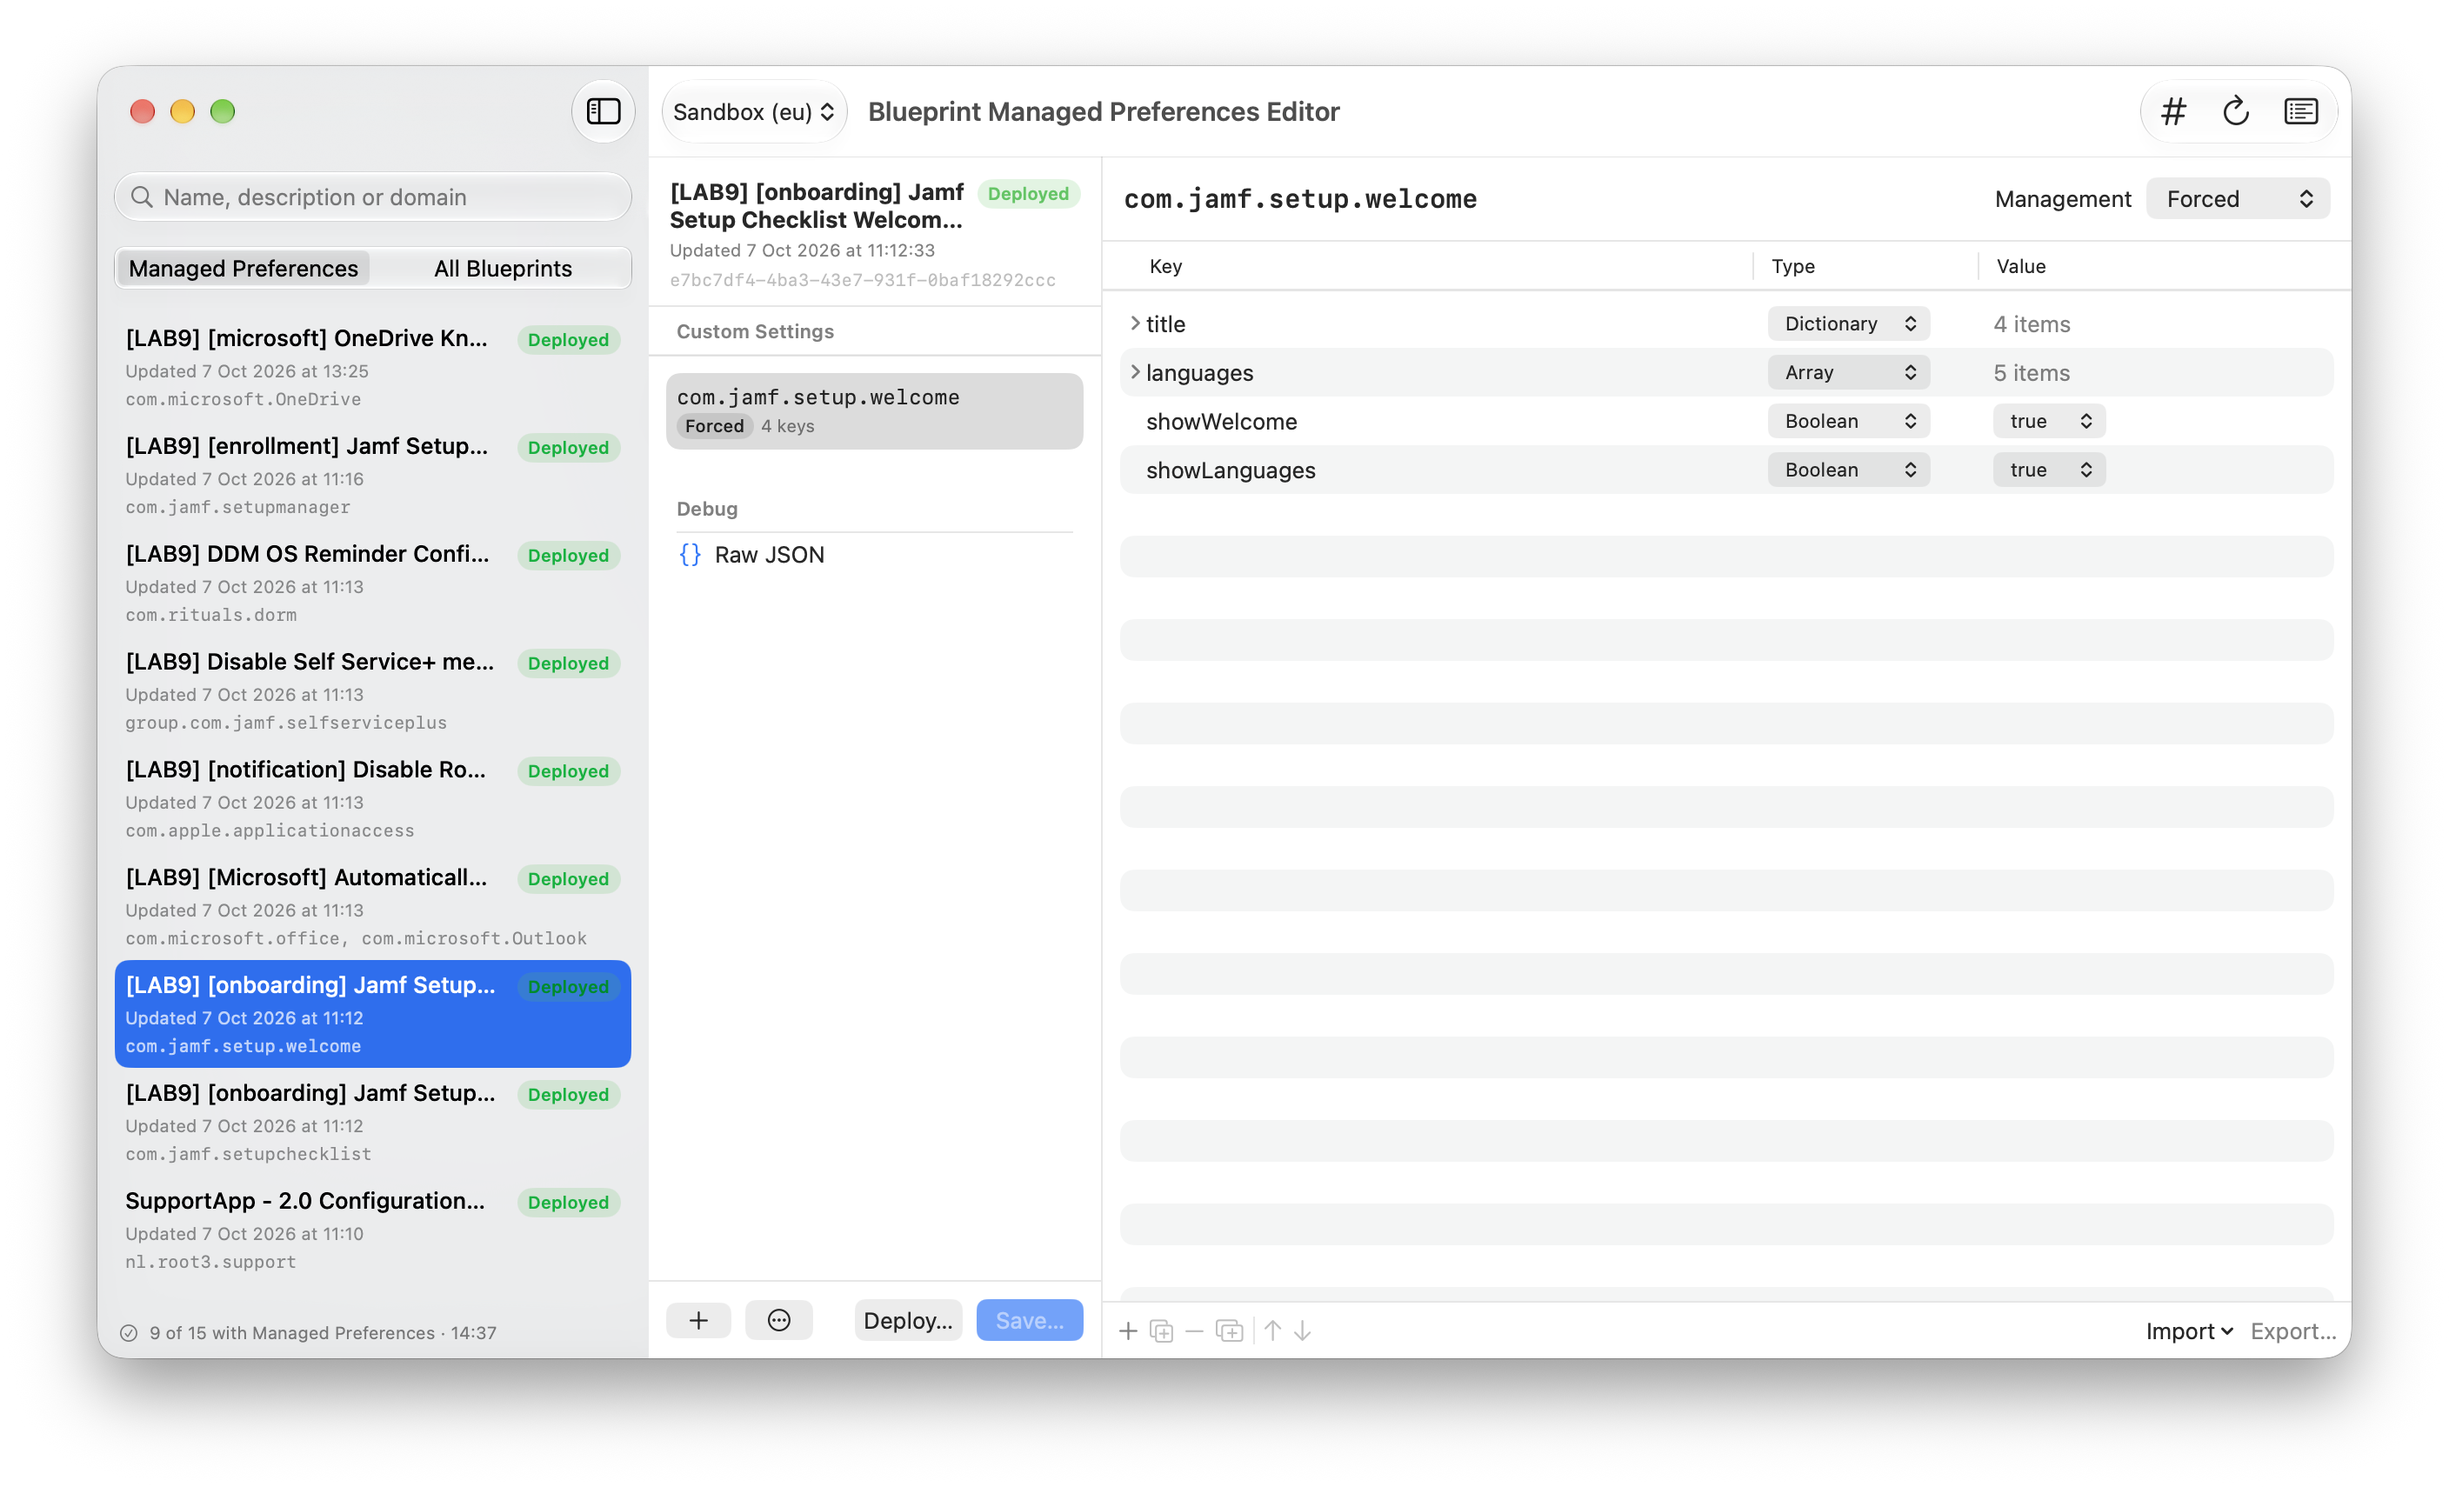
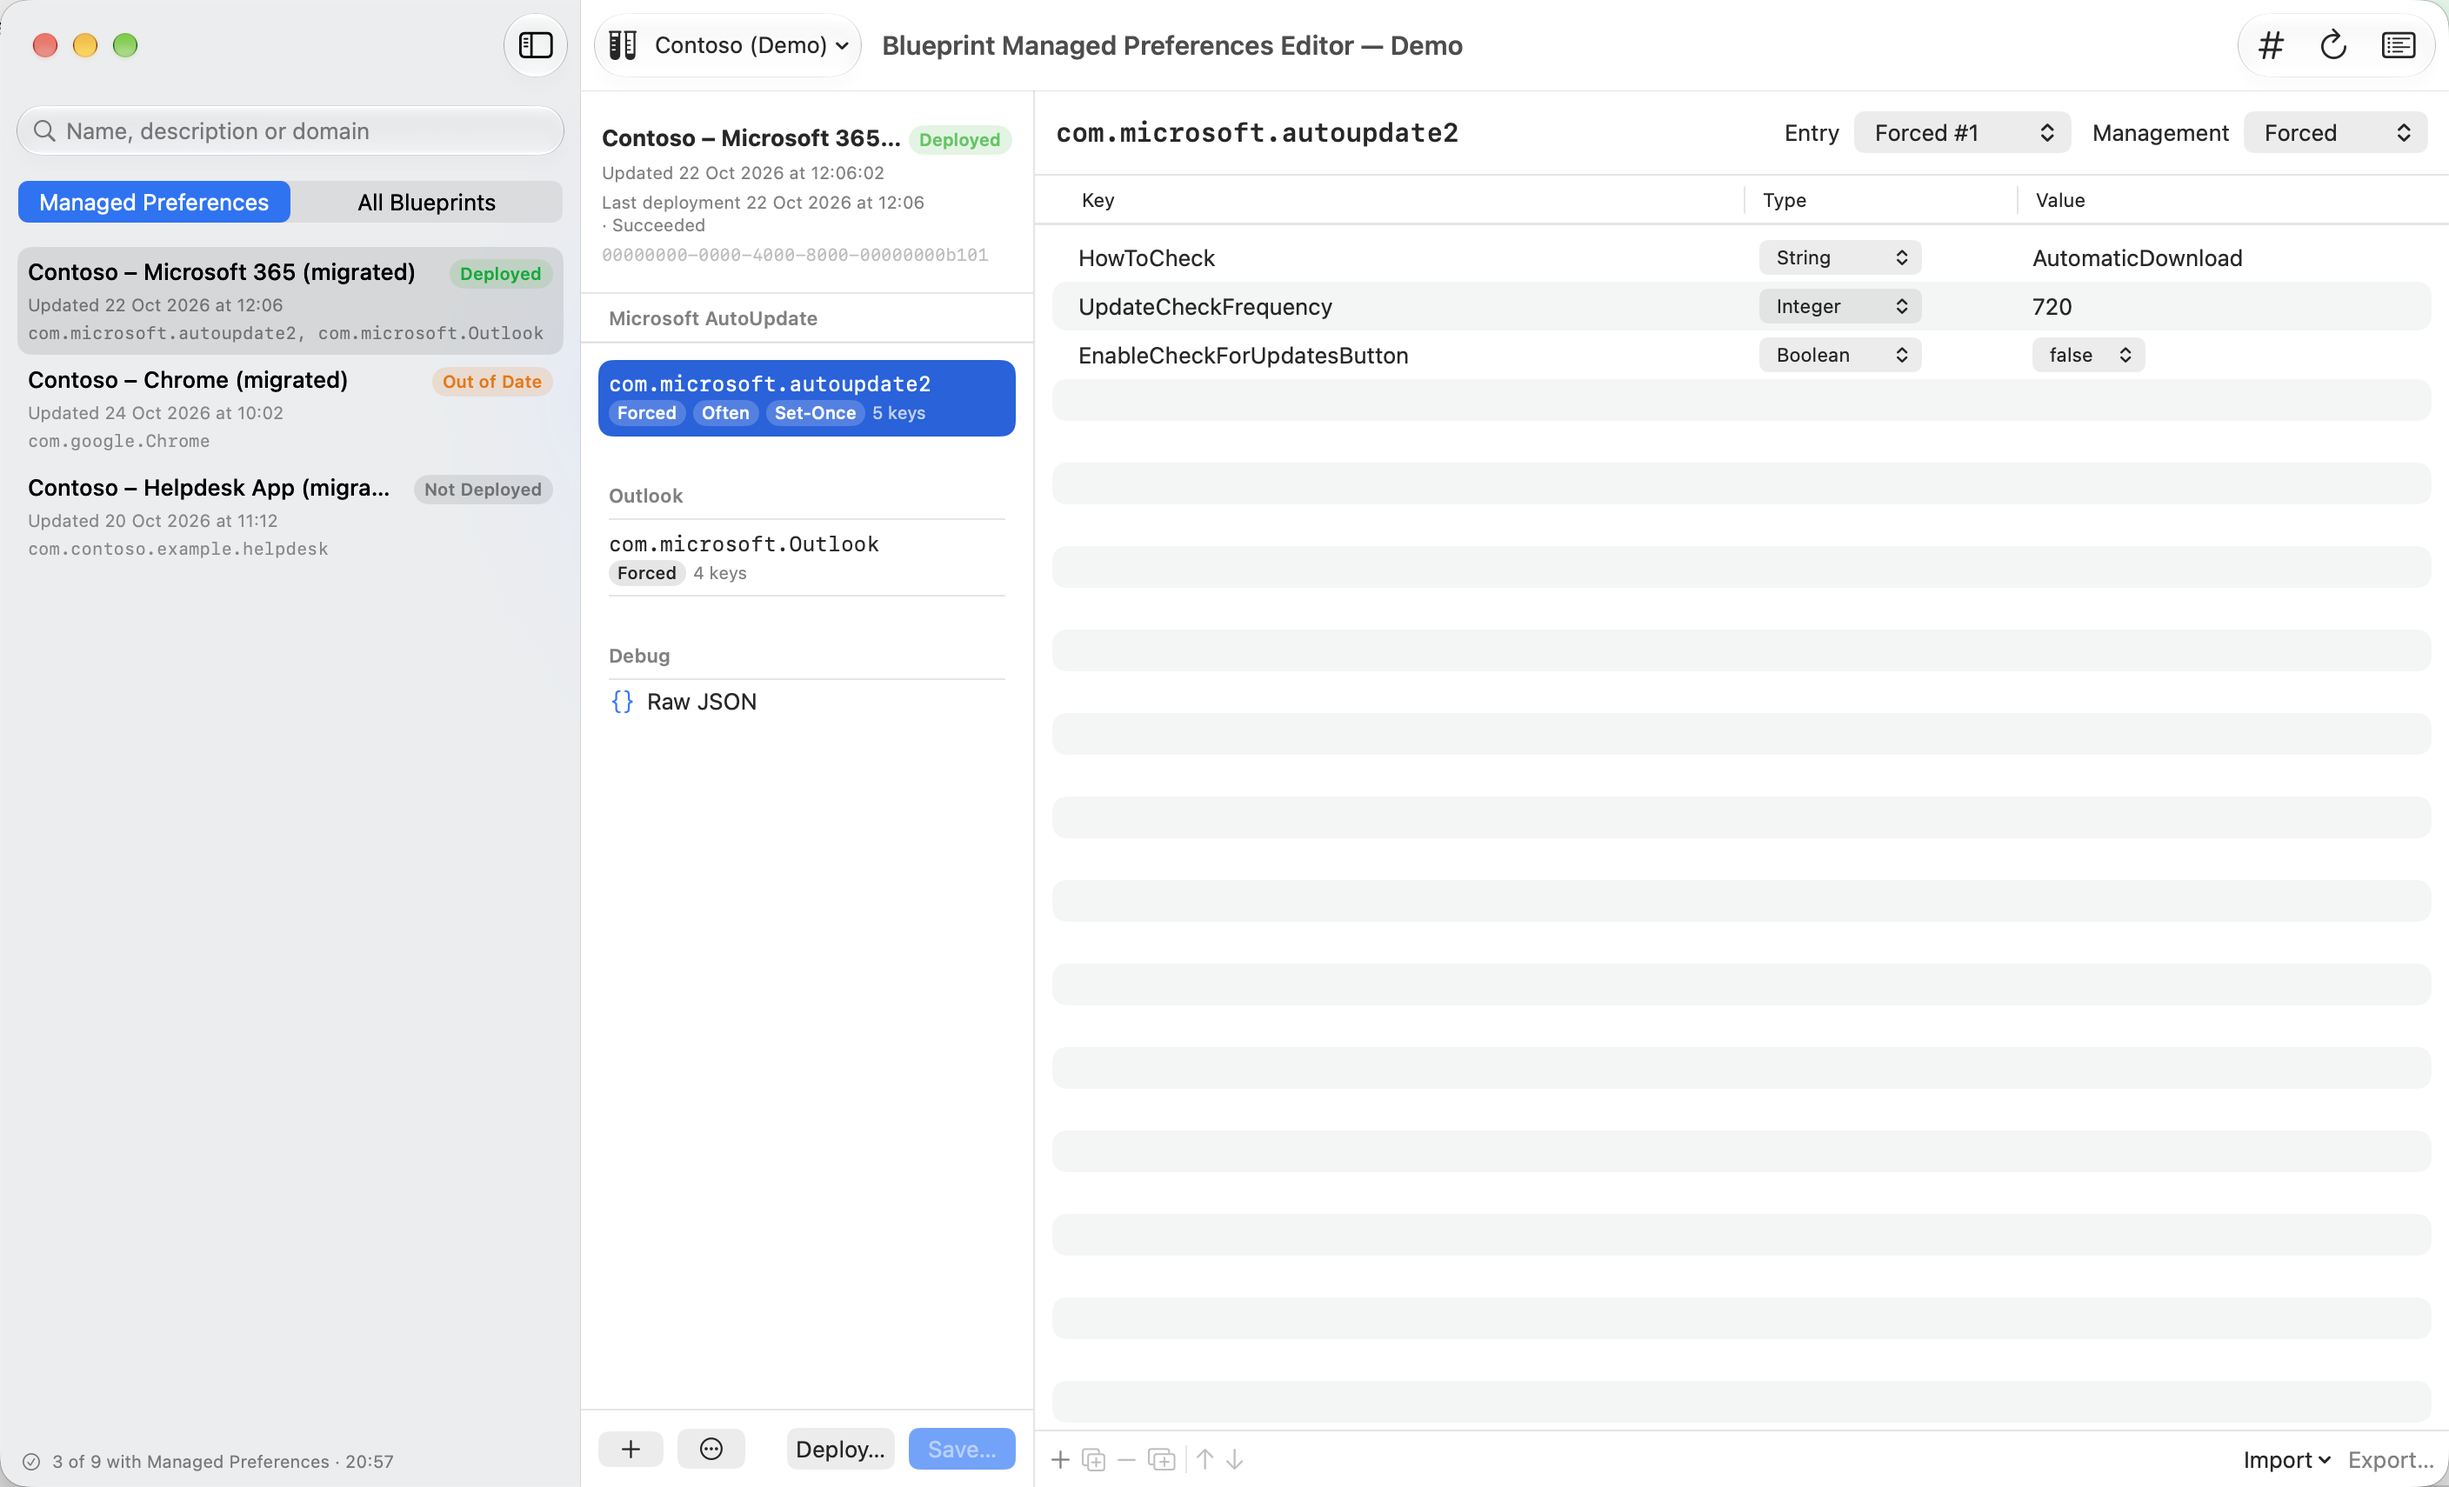
Documentation matches the current release

diff --git a/Blueprint Managed Preferences EditorUITests/ScreenshotUITests.swift b/Blueprint Managed Preferences EditorUITests/ScreenshotUITests.swift
@@ -1,0 +1,49 @@
+import XCTest
+import JTKitUITestSupport
+
+/// Makes the README screenshot in demo mode (Contoso sample data only).
+/// Not part of the release check: run it by hand when the interface changes.
+/// The image is attached to the test result under its `docs/` file name; get it with
+/// `xcrun xcresulttool export attachments --path <result bundle> --output-path <folder>`.
+final class ScreenshotUITests: JTKitUITestCase {
+    private let microsoft365 = "Contoso – Microsoft 365 (migrated)"
+    private let domain = "com.microsoft.autoupdate2"
+
+    override var appName: String { "Blueprint Managed Preferences Editor" }
+
+    override var demoLaunchArguments: [String] {
+        // A fixed window size (in points), so every screenshot has the same
+        // proportions, whatever frame the main window last had.
+        ["-checksForUpdates", "NO", "-NSWindow Frame main", "100 100 1408 855 0 0 1800 1130 "]
+    }
+
+    override func launchApp() {
+        launchInDemo()
+    }
+
+    func testReadmeScreenshot() {
+        let main = app.windows.firstMatch
+        XCTAssertTrue(main.waitForExistence(timeout: 20), "The main window did not open")
+
+        tap(text(microsoft365), timeout: 20)
+        tap(text(domain), timeout: 20)
+        XCTAssertTrue(app.outlineRows.firstMatch.waitForExistence(timeout: 20), "The domain's keys aren't shown")
+        sleep(1)
+
+        save(main.screenshot(), as: "screenshot.png")
+    }
+
+    // MARK: Helpers
+
+    private func save(_ screenshot: XCUIScreenshot, as name: String) {
+        let attachment = XCTAttachment(screenshot: screenshot)
+        attachment.name = name
+        attachment.lifetime = .keepAlways
+        add(attachment)
+    }
+
+    /// A SwiftUI text, which exposes its string as the value (label empty).
+    private func text(_ string: String) -> XCUIElement {
+        app.staticTexts.matching(NSPredicate(format: "value == %@ OR label == %@", string, string)).firstMatch
+    }
+}

diff --git a/README.md b/README.md
@@ -16,7 +16,7 @@ When Jamf Pro turns a classic configuration profile with an **Application & Cust
 
 Blueprint Managed Preferences Editor is a macOS app that uses that API for you. It finds every Blueprint with a Managed Preferences payload, lets you edit the payload in an outline editor, and saves your changes back. Deploying stays a separate, explicit step.
 
-![Blueprint Managed Preferences Editor showing the Blueprints that contain Managed Preferences, the preference domain of the selected Blueprint, and its keys in the outline editor](docs/screenshot.png)
+![Blueprint Managed Preferences Editor in Demo Mode, showing the sample Contoso Blueprints that contain Managed Preferences, the Microsoft AutoUpdate domain with its Forced, Often and Set-Once entries, and its keys in the outline editor](docs/screenshot.png)
 
 ## Installation
 
@@ -29,8 +29,8 @@ Download the latest notarized build from [Releases](https://github.com/JordyTher
 - **Outline editor**: in the style of Xcode’s property list editor, with String, Integer, Real, Boolean, Date, Data, Array and Dictionary types. Add, delete, duplicate, reorder and nest items. Values are validated as you edit.
 - **Import and export**: import domains, or replace one domain’s settings, from a `.plist`, a `.mobileconfig` (signed or unsigned) or pasted text, and export any domain as a `.plist`. A file without settings for the domain asks before its other settings are used, and domains with an unexpected shape are left alone.
 - **Review before saving**: a diff of old and new values for each domain and key, then **Save** or **Save & Deploy**.
-- **Undo and redo** for every edit. Unsaved changes are marked on the window and in the sidebar. **Discard Changes…**, **Reload from Server** and Quit ask before unsaved edits are lost.
-- **Multiple connections** to switch between tenants. Changing connections, or a connection’s Environment ID or client ID, clears the Blueprints of the previous one.
+- **Undo and redo** for every edit. Unsaved changes are marked on the window and in the sidebar. **Discard Changes…**, **Reload from Server** and Quit ask before unsaved edits are lost; Quit also asks while a save, deploy or restore is running.
+- **Multiple connections** to switch between tenants. Changing connections, changing the active connection’s region, Environment ID or client ID, or deleting it, clears the Blueprints of the previous one.
 - **Demo Mode**: try the app with sample Contoso Blueprints and no Jamf tenant. Turn it on in the connection picker or the Connection menu, or with **Try Demo Mode**. The picker reads “Contoso (Demo)” and window titles end in “— Demo”. Nothing is sent to a tenant and everything resets when the app quits.
 - **Settings**: **General** (appearance), **Connections** and **Updates**.
 - **Activity log and raw JSON**: every sign-in and API call is logged (Window › Activity Log, ⇧⌘L) with secrets redacted; request contents are never logged. The raw JSON view shows the Blueprint as received (**Pretty** or **Exact Response**) and, with unsaved edits, the **Pending PATCH Body** Save will send, each with **Copy** and **Save…**. Only GET requests, token requests, and Blueprint update and deploy requests are ever sent.
@@ -43,17 +43,17 @@ The Jamf Platform API applies Blueprint updates as a JSON merge-patch, and a mer
 - **Concurrent changes are caught.** Just before saving, restoring or deploying, the Blueprint is fetched again. If it changed on the server since you loaded it, nothing is changed or deployed and you’re warned.
 - **Every save and restore is backed up first.** The full Blueprint is written to `~/Library/Application Support/Blueprint Managed Preferences Editor/Backups/<Blueprint ID>/` (**Show Backups in Finder**), and **Restore from Backup** puts those steps back.
 - **Division-locked Blueprints are left alone.** `divisionId` is never sent. Blueprints assigned to a division are marked read-only.
-- **Deployment needs confirmation.** After a save the Blueprint shows *Out of Date* until you deploy it, and deploying asks for confirmation, showing the Blueprint name and its scope.
+- **Deployment needs confirmation.** After a save the Blueprint shows *Out of Date* until you deploy it, and deploying asks for confirmation, showing the Blueprint name and its scope. **Deploy…** is unavailable while edits are unsaved (**Save & Deploy…** in the review does both) and on division-locked Blueprints.
 
 ## Requirements
 
 - macOS 15 or later
-- A Jamf Platform API client (US, EU or APAC region) with the `blueprints:read`, `blueprints:update` and `blueprints:deploy` permissions
+- A Jamf Platform API client (US, EU or APAC region) with the `blueprints:read`, `blueprints:update` and `blueprints:deploy` permissions. **Test Connection** checks only `blueprints:read`; the write permissions can’t be checked without writing.
 - Your **Environment ID**: use **Load Environments** in Settings › Connections (organization-scope API clients), or copy it from the integration’s details in Jamf Account.
 
 ## Getting started
 
-1. Open **Settings** (⌘,) › **Connections**, add a connection, enter the region, client ID and client secret, choose the Environment ID with **Load Environments** (or paste it), and click **Test Connection**. To look around first, choose **Try Demo Mode** instead.
+1. Open **Settings** (⌘,) › **Connections**, add a connection, enter the region, client ID and client secret, choose the Environment ID with **Load Environments** (or paste it), and click **Test Connection**. To look around first, click **Try Demo Mode** in the main window, or choose Demo Mode in the connection picker or the Connection menu.
 2. Click **Refresh** (⌘R) to discover Blueprints with Managed Preferences.
 3. Select a Blueprint, then a domain, and edit its keys.
 4. Click **Save…** (⌘S), review the changes, and save. Deploy when you’re ready.
@@ -61,9 +61,9 @@ The Jamf Platform API applies Blueprint updates as a JSON merge-patch, and a mer
 ## Security
 
 - **Credentials** stay on your Mac. Client secrets are stored in the login Keychain; the other connection settings are stored in user defaults.
-- **Network**: the app talks only to `{region}.api.jamfcloud.com`, plus one daily request to GitHub asking whether a newer release exists. That request sends nothing else and can be turned off in Settings.
-- **Activity log**: kept in memory only, with tokens and secrets redacted. Request contents are never recorded, and responses only when the server reports an error. **Export for Bug Report…** hides serial numbers, emails and device names.
-- **Backups** contain the full Blueprint JSON as it was on the server, including any values in its Managed Preferences, such as license keys or tokens, but no Jamf credentials. They are stored unencrypted in your user Library, one per save and restore, and never deleted by the app: remove old ones yourself with **Show Backups in Finder**.
+- **Network**: the app talks only to `{region}.api.jamfcloud.com` (sign-in, Blueprints and, with **Load Environments**, the organization’s environment list), plus one daily request to GitHub asking whether a newer release exists. That request sends nothing else and can be turned off in Settings.
+- **Activity log**: kept in memory only, with tokens and secrets redacted. Request contents are never recorded, and responses only when the server reports an error. **Export for Bug Report…** replaces device identifiers (serial numbers, device names), usernames, emails and IP addresses with placeholders; **Export Unmasked…** keeps them.
+- **Backups** contain the full Blueprint JSON as it was on the server, including any values in its Managed Preferences, such as license keys or tokens, but no Jamf credentials. They are stored unencrypted in your user Library, one per save and restore, and never deleted by the app: remove old ones yourself with **Show Backups in Finder**. In Demo Mode, backups go to a temporary folder instead.
 - **No sandbox**: the app is not sandboxed, so backups are written to the exact path above. It runs with the Hardened Runtime.
 
 ## Known limitations
@@ -74,7 +74,9 @@ The Jamf Platform API applies Blueprint updates as a JSON merge-patch, and a mer
 
 ## Building
 
-Open `Blueprint Managed Preferences Editor.xcodeproj` in Xcode 27 or later and build the `Blueprint Managed Preferences Editor` scheme (⌘R). Run the tests with ⌘U. Depends on [JTKit](https://github.com/JordyThery/JTKit), Jordy’s own shared package; no third-party dependencies.
+Open `Blueprint Managed Preferences Editor.xcodeproj` in Xcode 27 or later and build the `Blueprint Managed Preferences Editor` scheme (⌘R). Run the tests with ⌘U.
+
+The app’s only package dependency is [JTKit](https://github.com/JordyThery/JTKit), the shared package of these apps. Resolving it also downloads Microsoft’s MSAL, which JTKit uses for Intune sign-in and which this app doesn’t link or ship.
 
 ## Support
 
